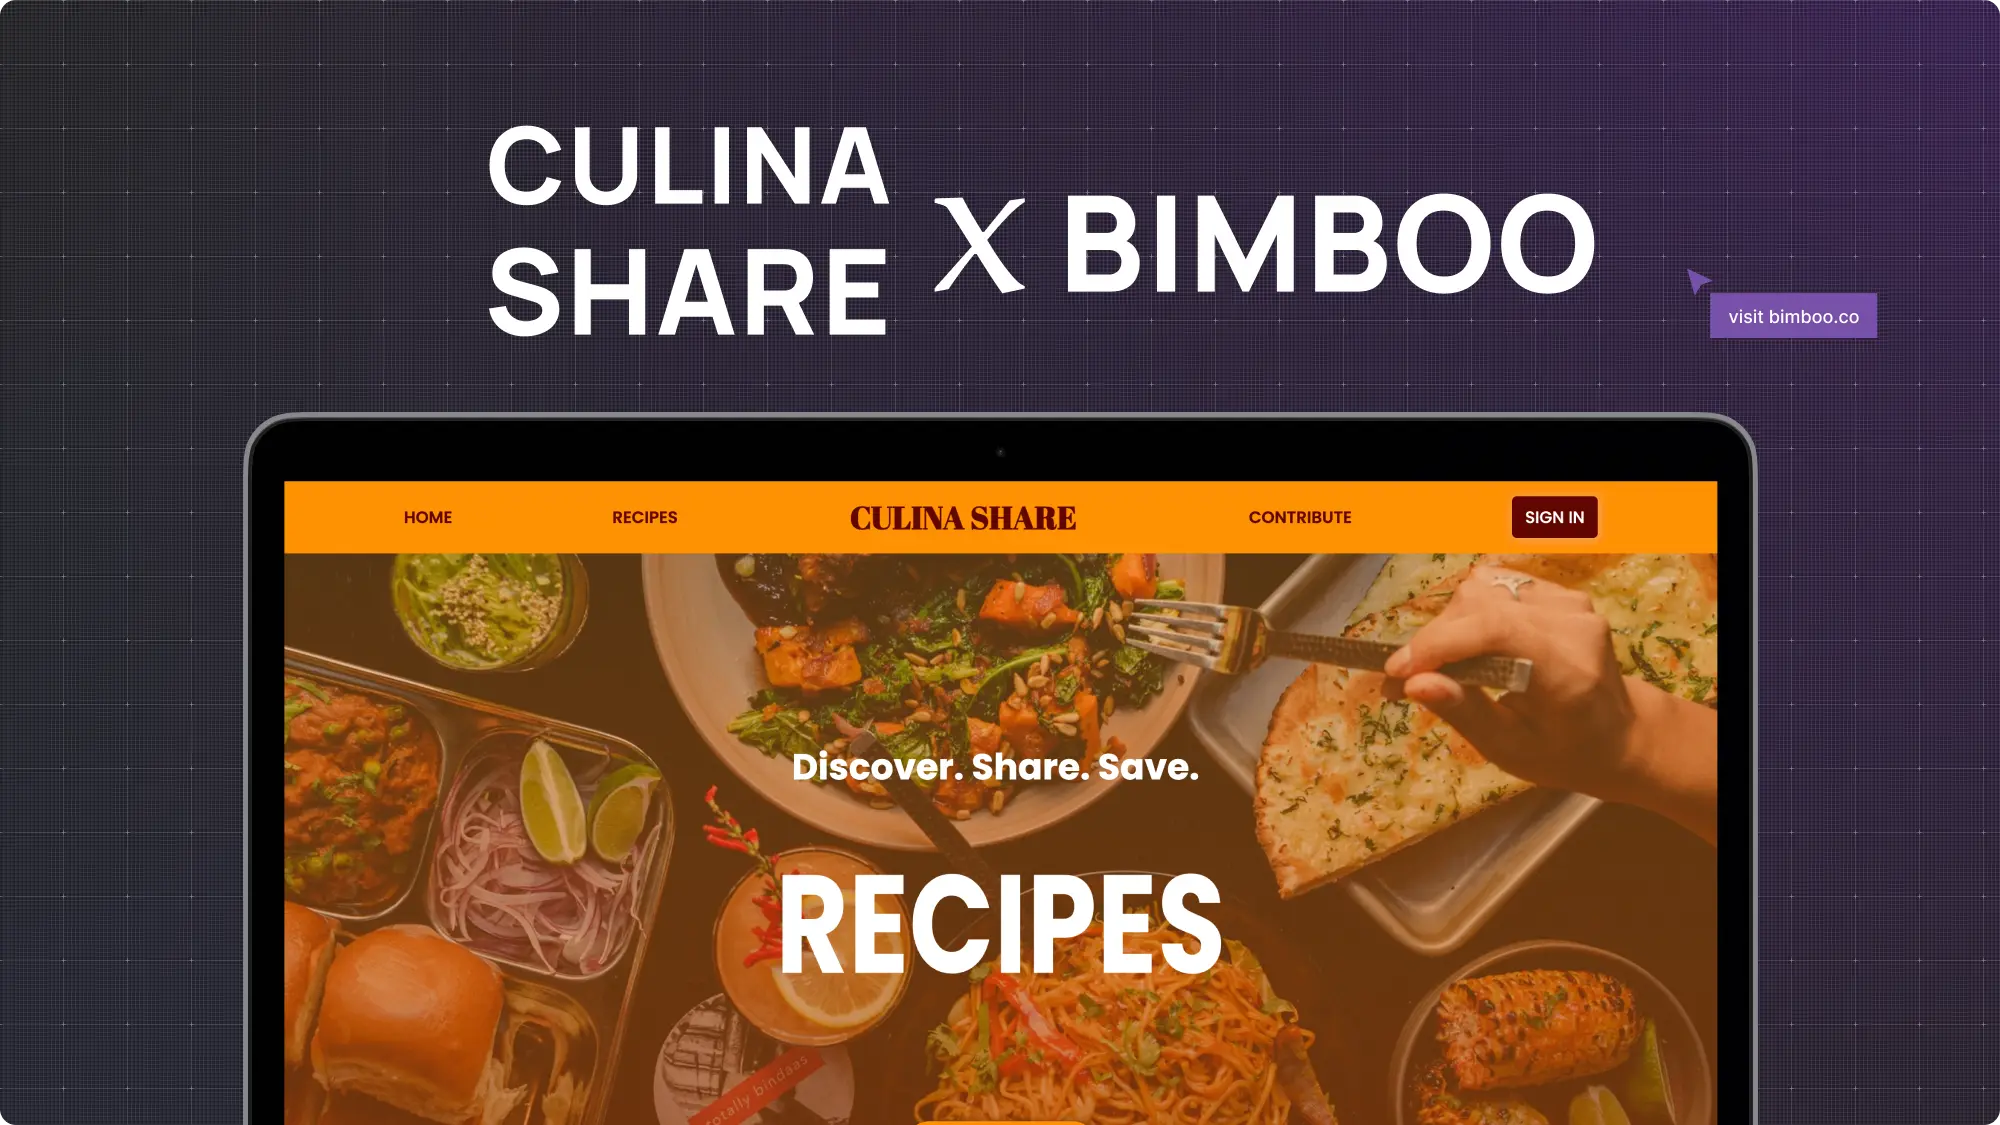
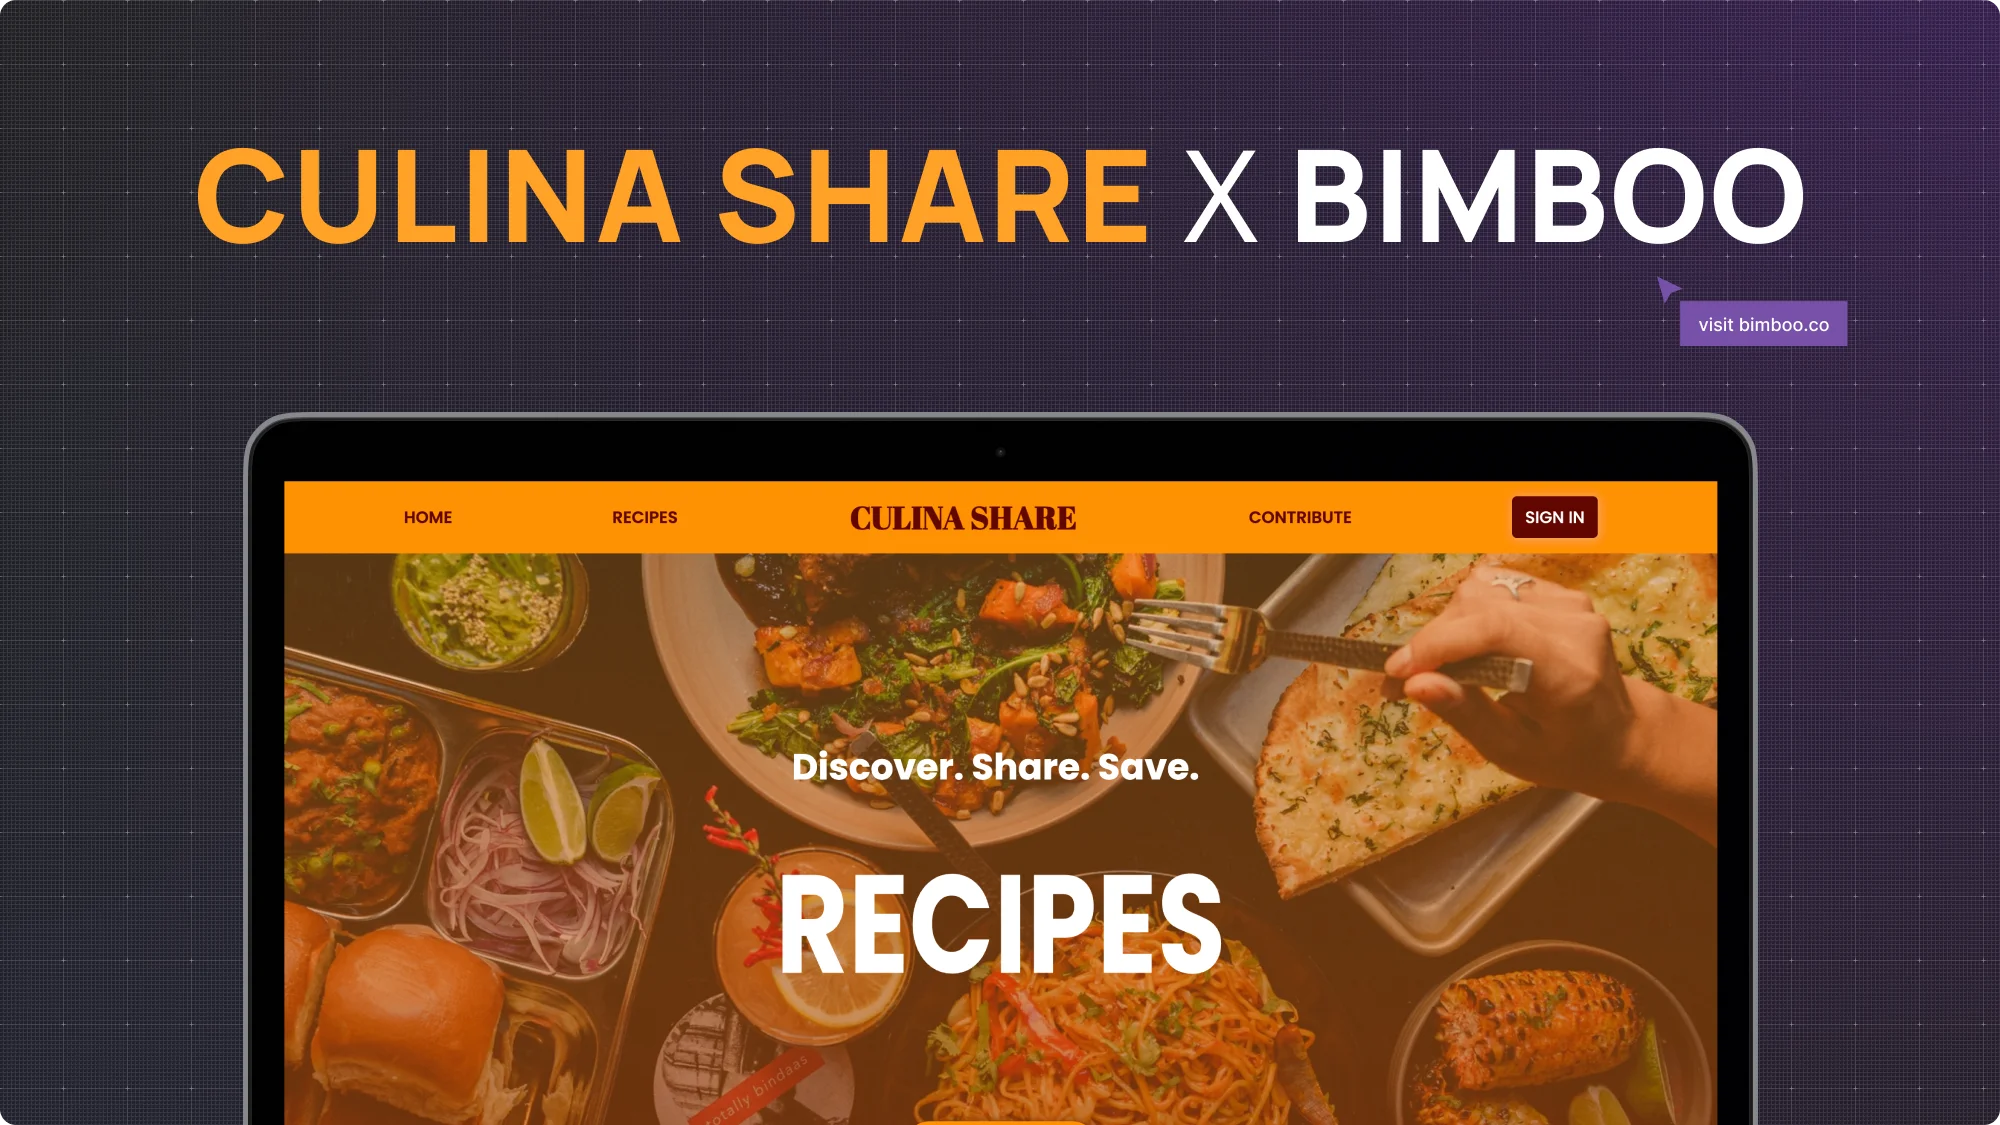
case study img updated & new case study added

Changed region(s): [[0.093, 0.0933, 0.961, 0.3111]]

diff --git a/Components/CaseStudy/CaseStudy.jsx b/Components/CaseStudy/CaseStudy.jsx
@@ -25,10 +25,18 @@ const CaseStudy = () => {
   const CASE_STUDY_DATA = [
     {
       title:
+        "How We Designed a Product Landing Page for a Finance Management Software.",
+      description:
+        "We built a high performance landing page for a finance management software from scratch in less 2 weeks, explaining their product features and what they do.",
+      imageSrc: "/case-study/spendly.webp",
+      pageURL: "#",
+    },
+    {
+      title:
         "How We Designed a Website + Content Management System for China's Leading First Aid Manufacturer.",
       description:
         " Designed a professional, product-focused website with Contentful CMS for a Chinese first aid manufacturer, boosting credibility and streamlining catalog management while facilitating global client engagement.",
-      imageSrc: "/case-study/godetiamedical.webp",
+      imageSrc: "/case-study/godetia.webp",
       pageURL:
         "https://bimboo-case-study.super.site/database/how-we-designed-a-website-cms-for-chinas-leading-first-aid-manufacturer",
     },
